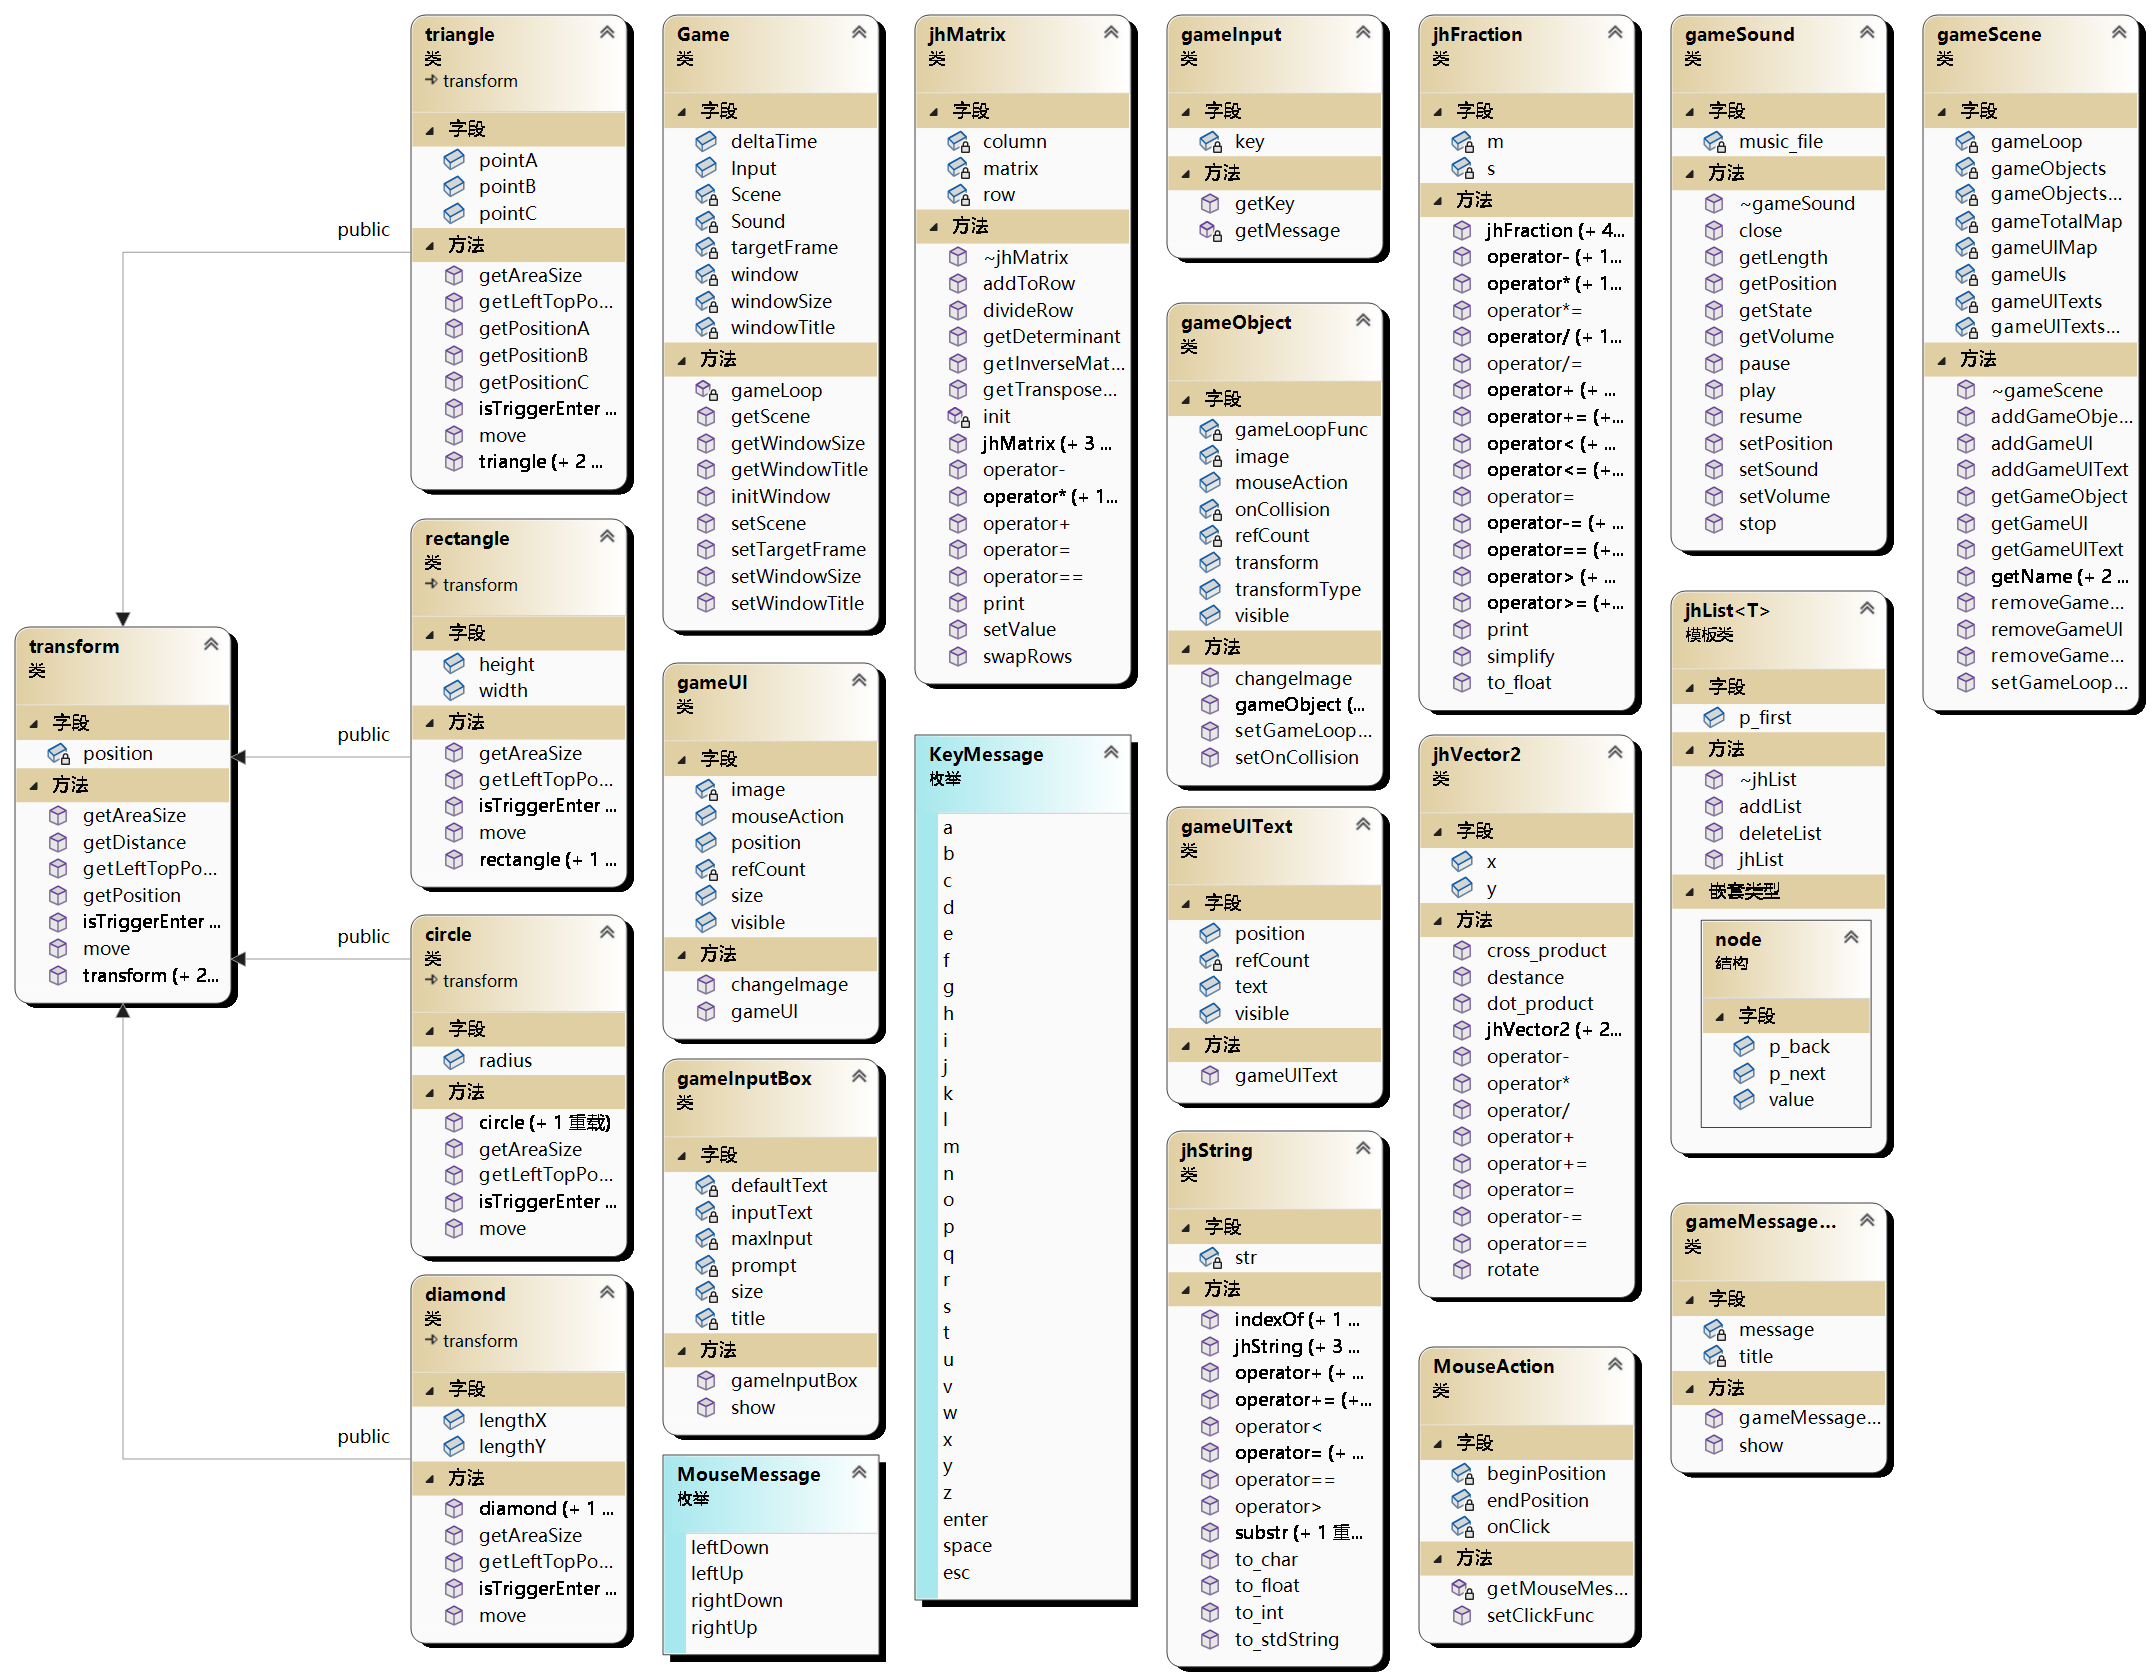
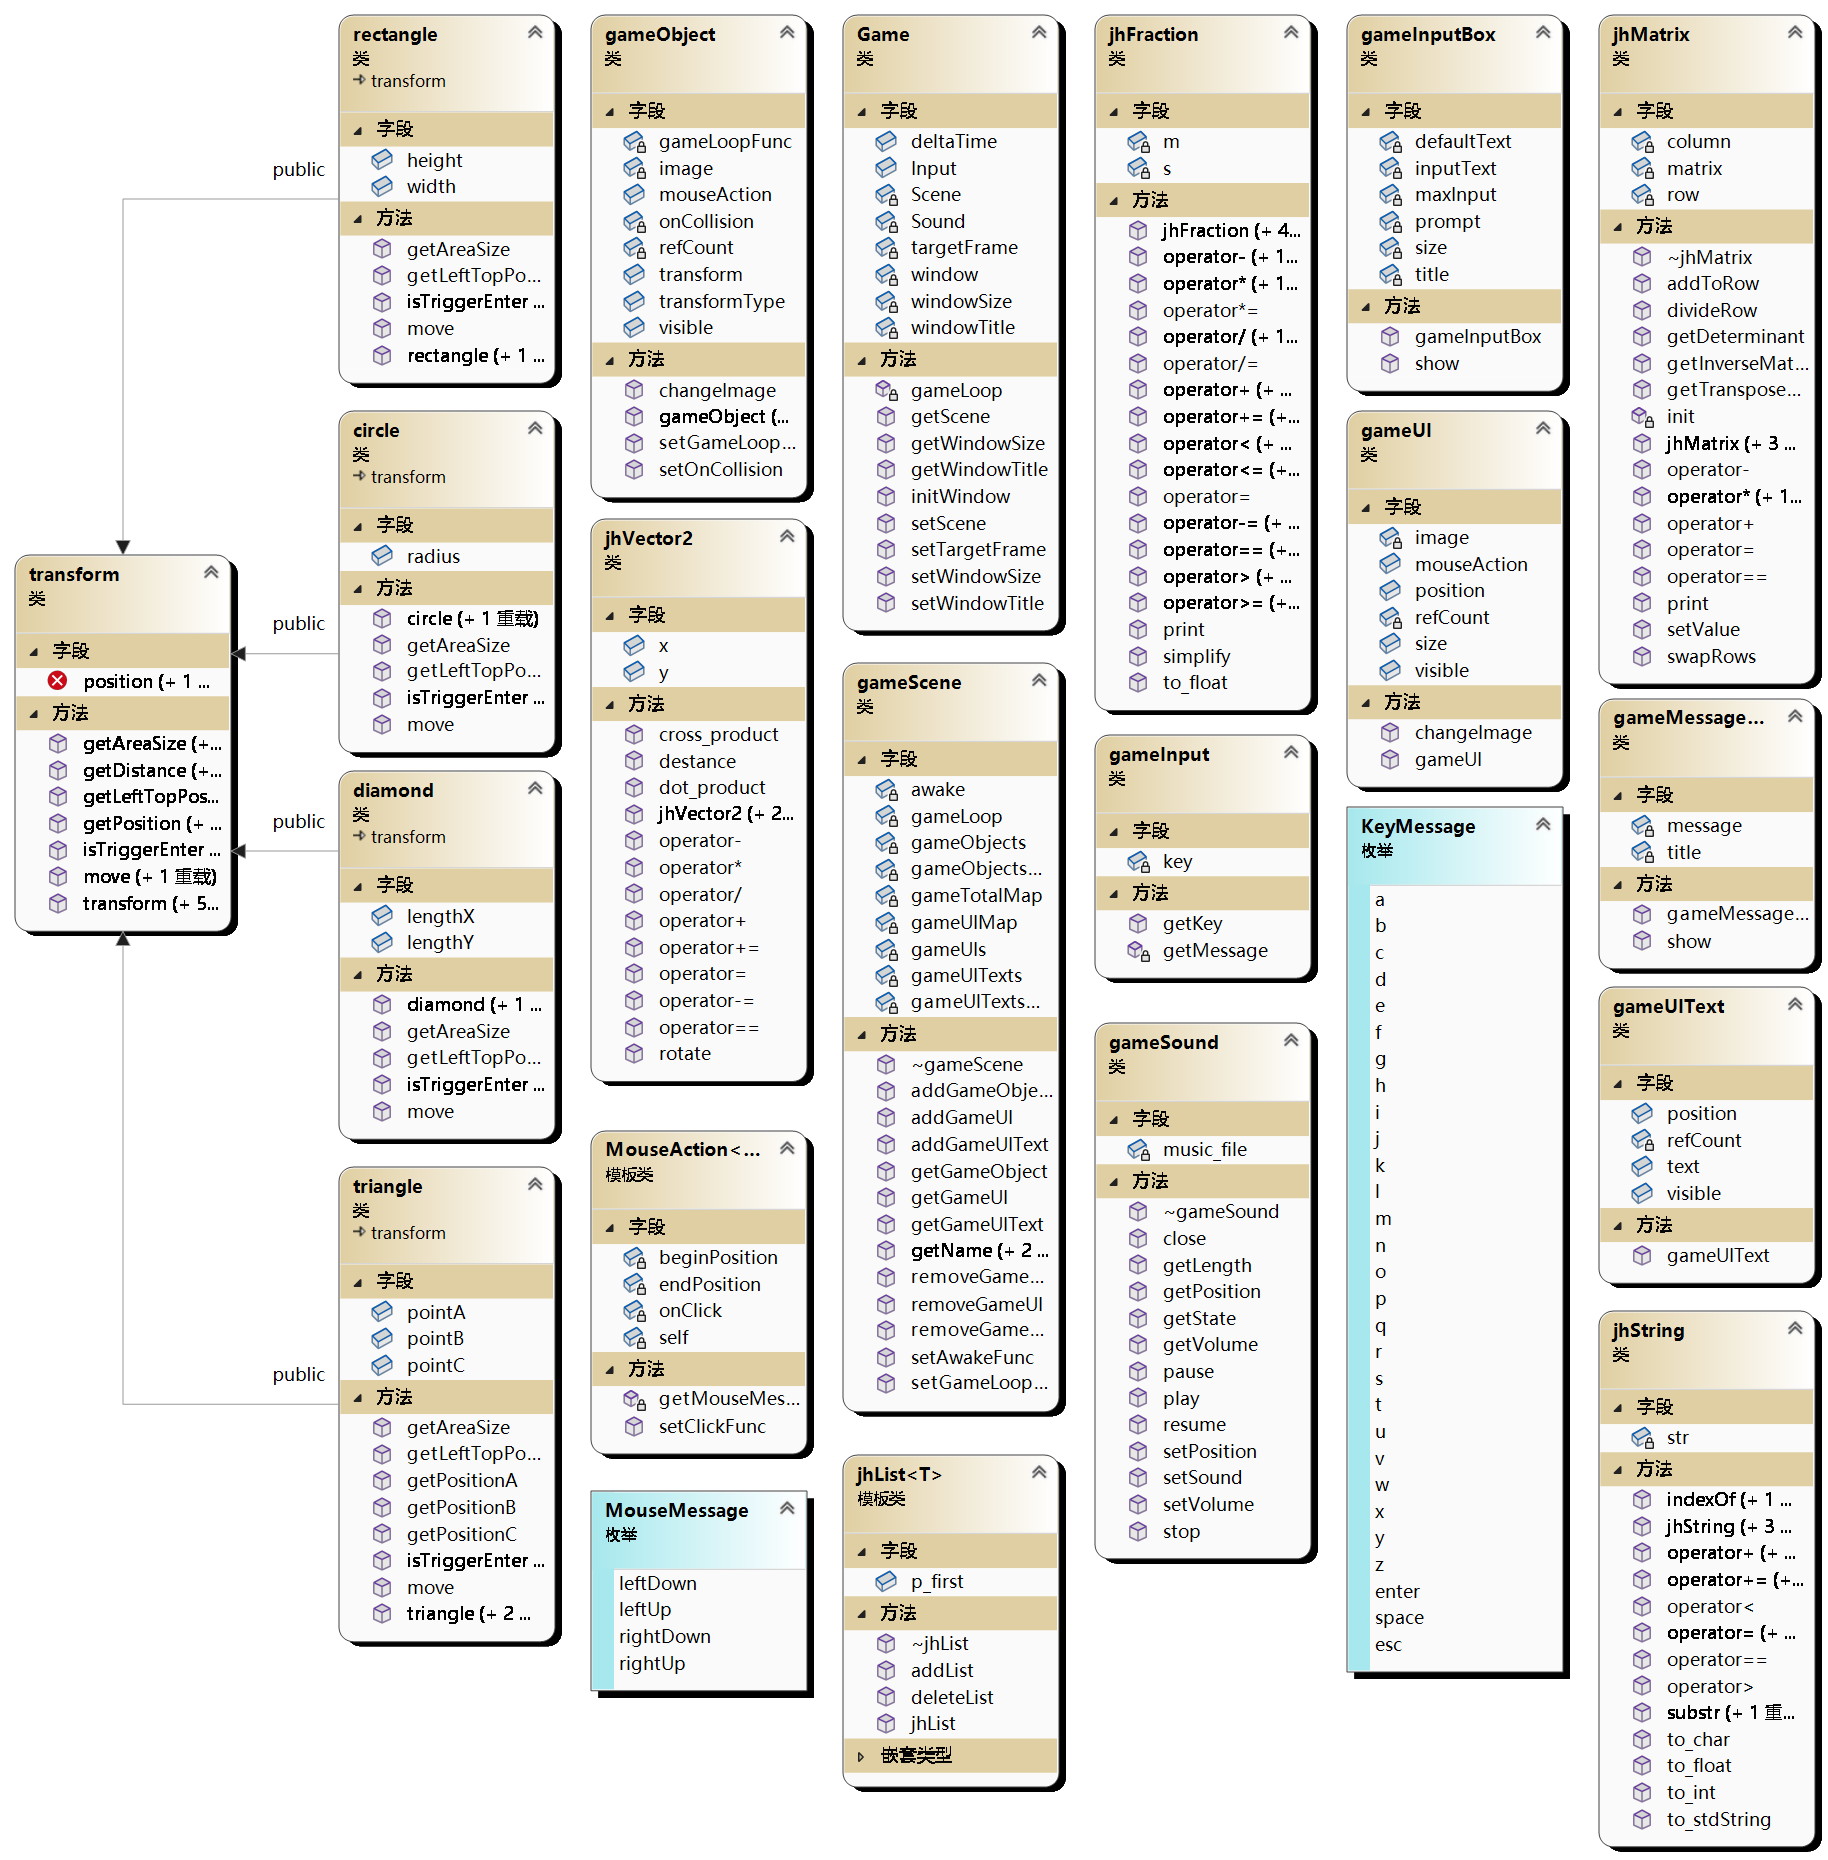
修改MouseAction为模板类，添加鼠标点击回调函数的self指针返回被点击对象

diff --git a/JHMG engine.cpp b/JHMG engine.cpp
@@ -7,9 +7,10 @@ gameObject::gameObject(jhObject2D::circle* transform, LPCTSTR file, int width, i
 	IMAGE* img = new IMAGE;
 	loadimage(img, file, width, height, true);
 	this->image = img;
-	this->mouseAction = new MouseAction;
+	this->mouseAction = new MouseAction<gameObject*>;
 	this->mouseAction->beginPosition = transform->getLeftTopPosition();
 	this->mouseAction->endPosition = transform->getLeftTopPosition() + jhVector2(width, height);
+	this->mouseAction->self = this;
 	this->visible = visible;
 }
 
@@ -20,9 +21,10 @@ gameObject::gameObject(jhObject2D::rectangle* transform, LPCTSTR file, int width
 	IMAGE* img = new IMAGE;
 	loadimage(img, file, width, height, true);
 	this->image = img;
-	this->mouseAction = new MouseAction;
+	this->mouseAction = new MouseAction<gameObject*>;
 	this->mouseAction->beginPosition = transform->getLeftTopPosition();
 	this->mouseAction->endPosition = transform->getLeftTopPosition() + jhVector2(width, height);
+	this->mouseAction->self = this;
 	this->visible = visible;
 }
 
@@ -33,9 +35,10 @@ gameObject::gameObject(jhObject2D::diamond* transform, LPCTSTR file, int width, 
 	IMAGE* img = new IMAGE;
 	loadimage(img, file, width, height, true);
 	this->image = img;
-	this->mouseAction = new MouseAction;
+	this->mouseAction = new MouseAction<gameObject*>;
 	this->mouseAction->beginPosition = transform->getLeftTopPosition();
 	this->mouseAction->endPosition = transform->getLeftTopPosition() + jhVector2(width, height);
+	this->mouseAction->self = this;
 	this->visible = visible;
 }
 
@@ -46,9 +49,10 @@ gameObject::gameObject(jhObject2D::triangle* transform, LPCTSTR file, int width,
 	IMAGE* img = new IMAGE;
 	loadimage(img, file, width, height, true);
 	this->image = img;
-	this->mouseAction = new MouseAction;
+	this->mouseAction = new MouseAction<gameObject*>;
 	this->mouseAction->beginPosition = transform->getLeftTopPosition();
 	this->mouseAction->endPosition = transform->getLeftTopPosition() + jhVector2(width, height);
+	this->mouseAction->self = this;
 	this->visible = visible;
 }
 
@@ -78,7 +82,7 @@ gameUI::gameUI(jhVector2 position, jhVector2 size, jhString image, bool visible)
 	IMAGE* img = new IMAGE;
 	loadimage(img, image.to_char(), size.x, size.y, true);
 	this->image = img;
-	this->mouseAction = new MouseAction;
+	this->mouseAction = new MouseAction<gameUI*>;
 	this->mouseAction->beginPosition = position;
 	this->mouseAction->endPosition = position + size;
 	this->visible = visible;
@@ -217,6 +221,8 @@ void Game::initWindow()
 {
 	this->window = initgraph(windowSize.x, windowSize.y);
 	SetWindowText(window, windowTitle.to_char());
+	if (this->Scene->awake != NULL)
+		this->Scene->awake();
 	this->gameLoop();
 }
 
@@ -550,6 +556,11 @@ void gameScene::setGameLoopFunc(void(*gameLoop)())
 	this->gameLoop = gameLoop;
 }
 
+void gameScene::setAwakeFunc(void(*awake)())
+{
+	this->awake = awake;
+}
+
 void gameInput::getMessage(const ExMessage& msg)
 {
 
@@ -574,14 +585,15 @@ gameUIText::gameUIText(jhString text, jhVector2 position, bool visible)
 	this->visible = visible;
 }
 
-void MouseAction::getMouseMessage(const ExMessage& msg)
+template<class T>
+void MouseAction<T>::getMouseMessage(const ExMessage& msg)
 {
 	if (msg.message == WM_LBUTTONDOWN)
 	{
 		if (msg.x >= beginPosition.x && msg.x <= endPosition.x && msg.y >= beginPosition.y && msg.y <= endPosition.y)
 		{
 			if (onClick != NULL)
-				onClick(MouseMessage::leftDown, jhVector2(msg.x, msg.y));
+				onClick(MouseMessage::leftDown, jhVector2(msg.x, msg.y),self);
 		}
 	}
 	if (msg.message == WM_LBUTTONUP)
@@ -589,7 +601,7 @@ void MouseAction::getMouseMessage(const ExMessage& msg)
 		if (msg.x >= beginPosition.x && msg.x <= endPosition.x && msg.y >= beginPosition.y && msg.y <= endPosition.y)
 		{
 			if (onClick != NULL)
-				onClick(MouseMessage::leftUp, jhVector2(msg.x, msg.y));
+				onClick(MouseMessage::leftUp, jhVector2(msg.x, msg.y),self);
 		}
 	}
 	if (msg.message == WM_RBUTTONDOWN)
@@ -597,7 +609,7 @@ void MouseAction::getMouseMessage(const ExMessage& msg)
 		if (msg.x >= beginPosition.x && msg.x <= endPosition.x && msg.y >= beginPosition.y && msg.y <= endPosition.y)
 		{
 			if (onClick != NULL)
-				onClick(MouseMessage::rightDown, jhVector2(msg.x, msg.y));
+				onClick(MouseMessage::rightDown, jhVector2(msg.x, msg.y),self);
 		}
 	}
 	if (msg.message == WM_RBUTTONUP)
@@ -605,12 +617,13 @@ void MouseAction::getMouseMessage(const ExMessage& msg)
 		if (msg.x >= beginPosition.x && msg.x <= endPosition.x && msg.y >= beginPosition.y && msg.y <= endPosition.y)
 		{
 			if (onClick != NULL)
-				onClick(MouseMessage::rightUp, jhVector2(msg.x, msg.y));
+				onClick(MouseMessage::rightUp, jhVector2(msg.x, msg.y),self);
 		}
 	}
 }
 
-void MouseAction::setClickFunc(void(*onClick)(int mouseMessage, jhVector2 position))
+template<class T>
+void MouseAction<T>::setClickFunc(void(*onClick)(int mouseMessage, jhVector2 position,T self))
 {
 	this->onClick = onClick;
 }
@@ -1263,6 +1276,8 @@ inline jhList<T>::~jhList()
 template class jhList<gameObject*>;
 template class jhList<gameUI*>;
 template class jhList<gameUIText*>;
+template class MouseAction<gameObject*>;
+template class MouseAction<gameUI*>;
 
 jhMatrix::jhMatrix(int row, int column)
 {

diff --git a/README.md b/README.md
@@ -284,8 +284,10 @@ int main()
 3.绑定游戏对象点击事件(点击调用)
 ```cpp
 //声明点击事件
-void onClick(int messageType, jhVector2 position)
+void onClick(int messageType, jhVector2 position,gameObject* self)
 {
+  //输出被点击对象id名
+  cout<<mainGame->getScene()->getName(self)<<endl;
   //点击输出
   if (messageType == MouseMessage::leftDown)
 	cout << "左键按下" << endl;
@@ -314,9 +316,9 @@ Game* mainGame;
 //声明函数
 void loop();
 void trigger(gameObject* other);
-void onClick(int messageType, jhVector2 position);
+void onClick(int messageType, jhVector2 position,gameObject* self);
 
-int main(int argc, char* argv[])
+int main()
 {
 	//创建游戏对象
 	mainGame = new Game;
@@ -412,8 +414,9 @@ void trigger(gameObject* other)
 	cout << mainGame->getScene()->getName(other) << endl;
 }
 
-void onClick(int messageType, jhVector2 position)
+void onClick(int messageType, jhVector2 position,gameObject* self)
 {
+	cout<<mainGame->getScene()->getName(self)<<endl;
 	//点击输出
 	if (messageType == MouseMessage::leftDown)
 		cout << "左键按下" << endl;
